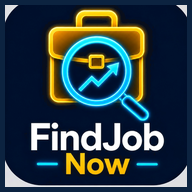
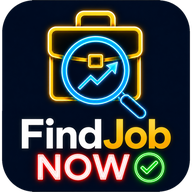
Add files via upload

diff --git a/index.html b/index.html
@@ -13,6 +13,7 @@
 <meta http-equiv="Content-Security-Policy" content="default-src 'self'; script-src 'self' 'unsafe-inline' https://cdnjs.cloudflare.com; worker-src 'self' blob: https://cdnjs.cloudflare.com; style-src 'self' 'unsafe-inline'; img-src 'self' data:; font-src 'self' data:; connect-src 'self' https://remotive.com https://jobicy.com https://boards-api.greenhouse.io https://api.lever.co https://api.ashbyhq.com; object-src 'none'; base-uri 'self'; form-action 'self' mailto:; upgrade-insecure-requests">
 <link rel="manifest" href="./manifest.webmanifest">
 <link rel="apple-touch-icon" sizes="180x180" href="./apple-touch-icon.png">
+<link rel="icon" type="image/png" sizes="32x32" href="./favicon-32.png">
 <link rel="icon" type="image/png" sizes="192x192" href="./icon-192.png">
 <link rel="stylesheet" href="./styles.css">
 <title>FindJob Now — Japan Career Intelligence</title>
@@ -21,7 +22,7 @@
 <div class="app" id="app">
   <header>
     <div class="logo" id="logoHome" role="button" tabindex="0" title="Home">
-      <img src="./icon-192.png" alt="FindJob Now" class="logo-img" width="32" height="32">
+      <img src="./icon-192.png" alt="FindJob Now" class="logo-img" width="36" height="36">
       FindJob Now
     </div>
     <div class="header-actions">
@@ -60,7 +61,7 @@
   </nav>
   <footer class="app-footer" id="appFooter">
     <div>© 2026 Rafat Kotaki. All rights reserved.</div>
-    <div>FindJob Now · v7.2.0</div>
+    <div>FindJob Now · v7.2.1</div>
   </footer>
 </div>
 <div class="toast" id="toast" role="status" aria-live="polite"></div>

diff --git a/sw.js b/sw.js
@@ -1,5 +1,5 @@
-// FindJob Now V7.2.0 PWA service worker
-const V = "fj-v7.2.0";
+// FindJob Now V7.2.1 PWA service worker
+const V = "fj-v7.2.1";
 const BASE = new URL("./", self.location).pathname;
 const SHELL = [
   BASE,
@@ -16,7 +16,9 @@ const SHELL = [
   BASE + "app.js",
   BASE + "icon-192.png",
   BASE + "icon-512.png",
-  BASE + "apple-touch-icon.png"
+  BASE + "apple-touch-icon.png",
+  BASE + "icon-maskable-512.png",
+  BASE + "favicon-32.png"
 ];
 const PDF = [
   "https://cdnjs.cloudflare.com/ajax/libs/pdf.js/3.11.174/pdf.min.js",

diff --git a/styles.css b/styles.css
@@ -82,8 +82,8 @@ header {
   cursor: pointer;
 }
 .logo-img {
-  width: 32px; height: 32px;
-  border-radius: 9px;
+  width: 36px; height: 36px;
+  border-radius: 10px;
   object-fit: cover;
 }
 .header-actions { margin-left: auto; display: flex; align-items: center; gap: 6px; }

diff --git a/storage.js b/storage.js
@@ -1,5 +1,5 @@
 // FindJob Now V7.1 — Local storage & state
-const APP_VERSION = "7.2.0";
+const APP_VERSION = "7.2.1";
 const DNA_ENGINE_VERSION = 7;
 const STORAGE_KEY = "fj2_state";
 

diff --git a/CHANGELOG-V7.2.1.md b/CHANGELOG-V7.2.1.md
@@ -1,0 +1,7 @@
+# FindJob Now V7.2.1 — New logo
+
+- Replaced all logos with the new neon briefcase + magnifier "FindJob NOW" artwork.
+- Regenerated icon-192, icon-512, apple-touch-icon (180), favicon-32 and a new maskable 512 icon.
+- Header logo slightly larger (36px); manifest background colour matched to the logo navy.
+- Service worker cache bumped to fj-v7.2.1 and new icons added to the offline shell.
+- APP_VERSION 7.2.1. No logic changes.
